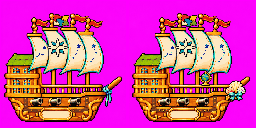
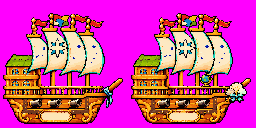
Refit ships: rebuild 128px cells with block-majority downscale (no pink speckles, clean outlines)
Claude-Session: https://claude.ai/code/session_01CF3muxpco1DsWYkFBj2aiJ

diff --git a/docs/astra/order21/fit21b.py b/docs/astra/order21/fit21b.py
@@ -1,0 +1,47 @@
+import sys
+import numpy as np
+from PIL import Image
+D, A, OUT = sys.argv[1], sys.argv[2], sys.argv[3]
+def isbg(a):
+    r, g, b = a[..., 0].astype(int), a[..., 1].astype(int), a[..., 2].astype(int)
+    return (r > 110) & (b > 110) & (g * 2 < np.minimum(r, b))
+def bbox(a):
+    m = ~isbg(a); ys, xs = np.nonzero(m); return xs.min(), ys.min(), xs.max(), ys.max()
+def orig(lv):
+    src = A + ('ship_stages.png' if lv <= 4 else 'ship_stage%d.png' % lv)
+    im = Image.open(src).convert('RGBA'); cw = im.width // 4
+    box = (3*cw, (lv-1)*cw, 4*cw, lv*cw) if lv <= 4 else (3*cw, 0, 4*cw, im.height)
+    c = im.crop(box); bg = Image.new('RGBA', c.size, (255, 0, 255, 255)); bg.alpha_composite(c); return np.array(bg.convert('RGB'))
+def down(a, sc, dx, dy):
+    """원본 큰 그림을 128칸으로: 칸마다 배경이 반 넘으면 마젠타, 아니면 배경 아닌 점들의 가운데값 색"""
+    H, W, _ = a.shape; bg = isbg(a)
+    out = np.zeros((128, 128, 3), np.uint8); out[...] = (255, 0, 255)
+    inv = 1 / sc
+    for ty in range(128):
+        y0 = (ty - dy) * inv; y1 = y0 + inv
+        if y1 <= 0 or y0 >= H: continue
+        ya, yb = max(0, int(round(y0))), min(H, int(round(y1)))
+        if yb <= ya: continue
+        for tx in range(128):
+            x0 = (tx - dx) * inv; x1 = x0 + inv
+            if x1 <= 0 or x0 >= W: continue
+            xa, xb = max(0, int(round(x0))), min(W, int(round(x1)))
+            if xb <= xa: continue
+            blk = a[ya:yb, xa:xb].reshape(-1, 3); m = ~bg[ya:yb, xa:xb].reshape(-1)
+            if m.mean() < .5: continue
+            p = blk[m]
+            # 가장 흔한 색 (가운데 쪽 점에 가중) → 번지지 않은 또렷한 색
+            q = (p // 16).astype(np.int32); key = q[:, 0] * 256 + q[:, 1] * 16 + q[:, 2]
+            vals, cnt = np.unique(key, return_counts=True); k = vals[cnt.argmax()]
+            out[ty, tx] = np.median(p[key == k], axis=0).astype(np.uint8)
+    return out
+for lv in range(2, 8):
+    raw = np.array(Image.open('%s/raw_%d.png' % (D, lv)).convert('RGB'))
+    H, W, _ = raw.shape; cw = W // 2
+    o = orig(lv); ob = bbox(o)
+    L = raw[:, :cw]; lb = bbox(L)
+    sc = (ob[2] - ob[0]) / (lb[2] - lb[0])
+    dx = ob[0] - lb[0] * sc; dy = ob[3] + 1 - (lb[3] + 1) * sc
+    sheet = np.zeros((128, 256, 3), np.uint8)
+    for k in range(2): sheet[:, k*128:(k+1)*128] = down(raw[:, k*cw:(k+1)*cw], sc, dx, dy)
+    Image.fromarray(sheet).save('%s/ship_refit_%d.png' % (OUT, lv)); print(lv, 'ok %.3f' % sc)
